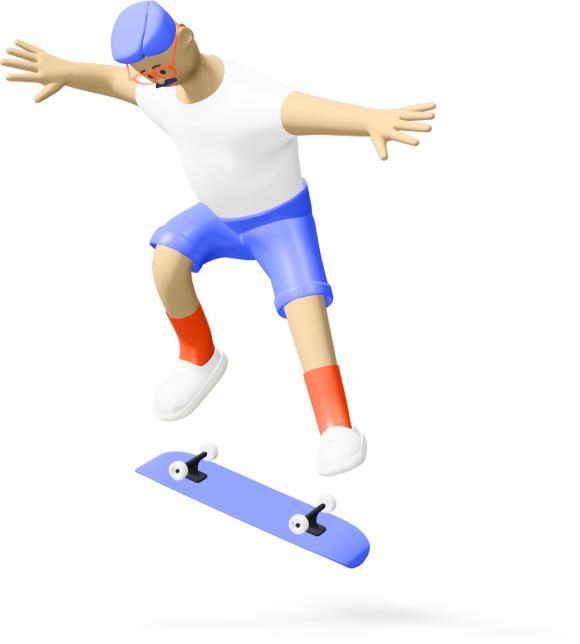
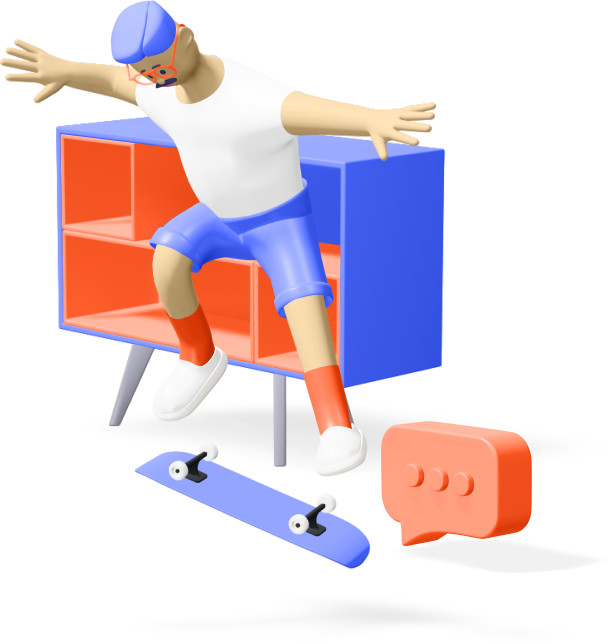
feat: add the hero section

Changed region(s): [[0.0621, 0.0, 0.9, 0.9006], [0.3103, 0.6211, 0.3414, 0.6522], [0.031, 0.0621, 0.0621, 0.0932]]

diff --git a/src/css/pages/index.css b/src/css/pages/index.css
@@ -3,6 +3,7 @@
 @import url("../vendor/variables.css");
 
 @import url("../blocks/container/container.css");
+@import url("../blocks/container/__hero/container__hero.css");
 
 @import url("../blocks/header/header.css");
 
@@ -15,3 +16,11 @@
 @import url("../blocks/button/button.css");
 @import url("../blocks/button/_size/button_size_small.css");
 @import url("../blocks/button/_color/button_color_orange.css");
+@import url("../blocks/button/_color/button_color_purple.css");
+
+@import url("../blocks/hero/hero.css");
+@import url("../blocks/hero/__title/hero__title.css");
+@import url("../blocks/hero/__text/hero__text.css");
+@import url("../blocks/hero/__btn-wrapper/hero__btn-wrapper.css");
+@import url("../blocks/hero/__bg-img/hero__bg-img.css");
+@import url("../blocks/hero/__arrow/hero__arrow.css");

diff --git a/src/index.html b/src/index.html
@@ -35,6 +35,20 @@
         >Get Started</a
       >
     </header>
+    <section class="hero container__hero">
+      <h1 class="hero__title">Grow your subscription business</h1>
+      <p class="hero__text">
+        Outcome-centered products that reduce churn, optimize pricing, and grow
+        your subscription business end-to-end.
+      </p>
+      <div class="hero__btn-wrapper">
+        <a href="#" class="button button_size_small button_color_purple"
+          >Get Started</a
+        >
+        <div class="hero__arrow"></div>
+      </div>
+      <div class="hero__bg-img"></div>
+    </section>
     <script type="module" src="./js/main.js"></script>
   </body>
 </html>

diff --git a/src/css/blocks/hero/__bg-img/hero__bg-img.css b/src/css/blocks/hero/__bg-img/hero__bg-img.css
@@ -1,0 +1,11 @@
+.hero__bg-img {
+  position: absolute;
+  top: 0;
+  right: -56px;
+  width: 580px;
+  height: 644px;
+  background-image: url("../../accets/images/hero-bg.png");
+  background-position: 0 0;
+  background-repeat: no-repeat;
+  background-size: cover;
+}

diff --git a/src/css/blocks/hero/__arrow/hero__arrow.css b/src/css/blocks/hero/__arrow/hero__arrow.css
@@ -1,0 +1,9 @@
+.hero__arrow {
+  width: 60px;
+  height: 60px;
+  margin-left: 40px;
+  background-image: url("../../accets/images/hero-btn.svg");
+  background-position: 0 0;
+  background-repeat: no-repeat;
+  background-size: cover;
+}

diff --git a/src/css/blocks/hero/__text/hero__text.css b/src/css/blocks/hero/__text/hero__text.css
@@ -1,0 +1,10 @@
+.hero__text {
+  max-width: 460px;
+  margin-top: 30px;
+  margin-bottom: 0;
+  color: var(--main-color-gray);
+  font-family: var(--main-font-text);
+  font-size: 20px;
+  font-weight: 400;
+  line-height: 30px;
+}

diff --git a/src/css/blocks/hero/__title/hero__title.css b/src/css/blocks/hero/__title/hero__title.css
@@ -1,0 +1,8 @@
+.hero__title {
+  max-width: 500px;
+  margin: 0;
+  color: var(--main-color-dark);
+  font-family: var(--main-font-title);
+  font-size: 80px;
+  line-height: 77px;
+}

diff --git a/src/css/blocks/button/_color/button_color_purple.css b/src/css/blocks/button/_color/button_color_purple.css
@@ -1,0 +1,4 @@
+.button_color_purple {
+  background-color: var(--main-color-accent);
+  color: var(--main-color-white);
+}

diff --git a/src/css/blocks/hero/__btn-wrapper/hero__btn-wrapper.css b/src/css/blocks/hero/__btn-wrapper/hero__btn-wrapper.css
@@ -1,0 +1,5 @@
+.hero__btn-wrapper {
+  display: flex;
+  align-items: center;
+  margin-top: 50px;
+}

diff --git a/src/css/blocks/hero/hero.css b/src/css/blocks/hero/hero.css
@@ -1,0 +1,5 @@
+.hero {
+  position: relative;
+  padding-top: 92px;
+  padding-bottom: 100px;
+}

diff --git a/src/css/blocks/container/__hero/container__hero.css b/src/css/blocks/container/__hero/container__hero.css
@@ -1,0 +1,3 @@
+.container__hero {
+  margin-top: 100px;
+}
